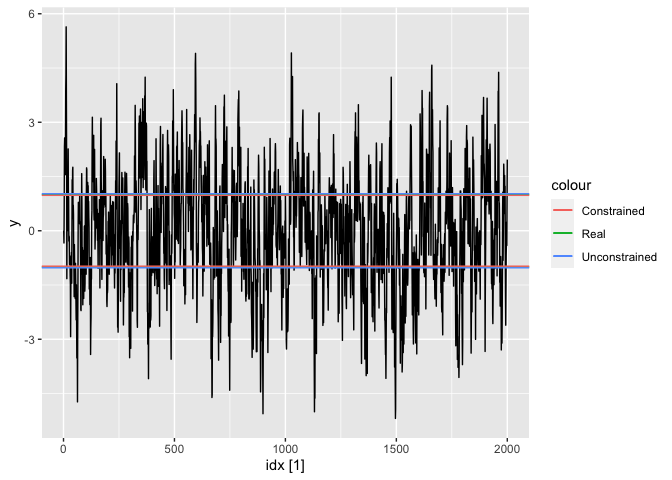
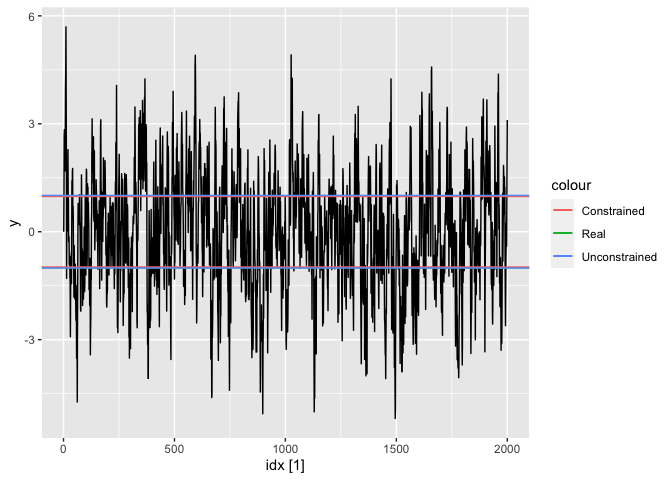
Update code in README and examples to take less time

diff --git a/README.md b/README.md
@@ -40,22 +40,23 @@ $$ where $\delta_0 = 1$, $\delta_1 = -0.2$ and $\gamma_1 = 1$.
 
 ``` r
 # Simulate a time series
-threshold_process <- function(lag1){
+threshold_process <- function(lag1, error){
   if(abs(lag1) > 1) {
     # Above threshold of 1
     # Mean reverting 
     # AR1 process with coeffcient 0.8
-    lag1 * 0.8 + rnorm(1)
+    lag1 * 0.8 + error
   } else {
     # Below threshold of 1
     # a unit root process
-    lag1 + rnorm(1)
+    lag1 + error
   }
 }
 set.seed(2222)
 time_span <- 2000
 y <- numeric(time_span)
-for(i in 2:time_span) y[[i]] <- threshold_process(y[[i-1]])
+errors <- rnorm(time_span)
+for(i in 2:time_span) y[[i]] <- threshold_process(y[[i-1]], errors[[i]])
 
 # Convert to tsibble
 df <- tsibble(y = y, idx = seq_along(y), index = idx)
@@ -75,9 +76,9 @@ est
 #> # A tibble: 3 × 6
 #>   .model term                                estimate std.e…¹ statis…²   p.value
 #>   <chr>  <chr>                                  <dbl>   <dbl>    <dbl>     <dbl>
-#> 1 thrreg (Intercept)                         -0.00136  0.0227  -0.0602  9.52e- 1
-#> 2 thrreg I(lag(y) * (abs(lag(y)) >= 0.97949… -0.220    0.0141 -15.6     4.18e-52
-#> 3 thrreg .gamma_1                             0.979   NA       NA      NA       
+#> 1 thrreg (Intercept)                         -3.86e-4  0.0227  -0.0170  9.86e- 1
+#> 2 thrreg I(lag(y) * (abs(lag(y)) >= 0.97949… -2.20e-1  0.0141 -15.6     8.02e-52
+#> 3 thrreg .gamma_1                             9.79e-1 NA       NA      NA       
 #> # … with abbreviated variable names ¹std.error, ²statistic
 
 # Estimated threshold value
@@ -98,20 +99,20 @@ fit <- df %>%
 est <- tidy(fit)
 est
 #> # A tibble: 4 × 6
-#>   .model term                                 estimate std.e…¹ stati…²   p.value
-#>   <chr>  <chr>                                   <dbl>   <dbl>   <dbl>     <dbl>
-#> 1 thrreg (Intercept)                          -6.60e-4  0.0227 -0.0291  9.77e- 1
-#> 2 thrreg I(lag(y) * (abs(lag(y)) >= 1.024210… -1.80e-1  0.0585 -3.07    2.16e- 3
-#> 3 thrreg lag(y)                                9.59e-1  0.0568 16.9     6.61e-60
-#> 4 thrreg .gamma_1                              1.02e+0 NA      NA      NA       
+#>   .model term                                estimate std.e…¹ statis…²   p.value
+#>   <chr>  <chr>                                  <dbl>   <dbl>    <dbl>     <dbl>
+#> 1 thrreg (Intercept)                          1.39e-4  0.0227  0.00612  9.95e- 1
+#> 2 thrreg I(lag(y) * (abs(lag(y)) >= 1.00949… -1.86e-1  0.0600 -3.10     1.98e- 3
+#> 3 thrreg lag(y)                               9.66e-1  0.0583 16.6      7.25e-58
+#> 4 thrreg .gamma_1                             1.01e+0 NA      NA       NA       
 #> # … with abbreviated variable names ¹std.error, ²statistic
 
 # Estimated threshold value
 .gamma_1_unconstrained <- est$estimate[est$term == ".gamma_1"]
 ```
 
-We find $\hat{\delta}_0 = 0.959$, $\hat{\delta}_1 = -0.18$ and
-$\hat{\gamma}_1 = 1.02$.
+We find $\hat{\delta}_0 = 0.966$, $\hat{\delta}_1 = -0.186$ and
+$\hat{\gamma}_1 = 1.01$.
 
 ``` r
 # Plot
